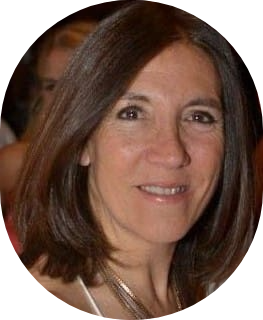
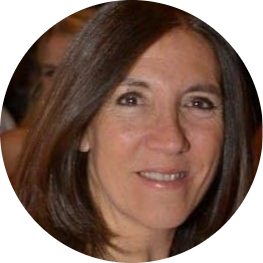
Actualización proyecto

diff --git a/index.html b/index.html
@@ -56,13 +56,13 @@
                 </div>
                 <div class="carousel-inner">
                     <div class="carousel-item active">
-                        <img src="img/slide1.png" class="d-block w-100" alt="slide1">
+                        <img src="img/Vmontaña1.png" class="d-block w-100" alt="slide1">
                     </div>
                     <div class="carousel-item">
-                        <img src="img/slide2.png" class="d-block w-100" alt="slide2">
+                        <img src="img/Vmontaña2.png" class="d-block w-100" alt="slide2">
                     </div>
                     <div class="carousel-item">
-                        <img src="img/slide3.png" class="d-block w-100" alt="slide3">
+                        <img src="img/Vmontaña3.png" class="d-block w-100" alt="slide3">
                     </div>
                 </div>
                 <button class="carousel-control-prev" type="button" data-bs-target="#carouselExampleIndicators"
@@ -80,21 +80,13 @@
                 <h2><strong>SERVICIOS</strong></h2>
                 <div class="imgindex margp">
                     <figure>
-                        <h4>Servicio Estructural</h4>
+                        <h4>Cálculo Estructural</h4>
                         <img src="img/Estructura.jpg" alt="Estructura">
-                        <!-- <figcaption>Estructuras para edificios, etc.</figcaption> -->
                     </figure>
                     <figure>
-                        <h4>Servicio de Dirección e Inspección de obras
+                        <h4>Dirección e Inspección de obras
                         </h4>
                         <img src="img/inspec.jpg" alt="Estructura">
-                        <!-- <figcaption>Dirección e Inspección de obras civiles</figcaption> -->
-                    </figure>
-                    <figure>
-                        <h4>Servicio de obras hidraulicas
-                        </h4>
-                        <img src="img/hidra.jpg" alt="hidraulica">
-                        <!-- <figcaption>Obras hidraulicas</figcaption> -->
                     </figure>
                 </div>
                 <button class="buttonRedondo margp"><a href="views/servicios.html"><strong>Ver más</strong></a></button>
@@ -103,9 +95,9 @@
                 <h2><strong>¿QUIENES SOMOS?</strong></h2>
                 <div class="imgindex margp">
                     <figure class="scale">
-                        <img src="img/Patricia.png" alt="Estructura" width="183" height="220">
+                        <img src="img/Patricia.png" alt="Estructura" width="220" height="220">
                         <figcaption>
-                            <strong>Patricia Alejandra Gamez <br> +30 años de experiencia</strong>
+                            <strong>Patricia Alejandra Gamez <br> Ingeniera Civil</strong>
                             <div class="flexesp ancho margp2">
                                 <a href="https://www.facebook.com/patricia.gamez.566" target="_blank"><img src="img/FB.png" alt="facebook"
                                         width="30" height="30"></a>
@@ -117,9 +109,9 @@
                         </figcaption>
                     </figure>
                     <figure class="scale margp3">
-                        <img src="img/Carlos.png" alt="Estructura" width="183" height="220">
+                        <img src="img/Carlos.png" alt="Estructura" width="220" height="220">
                         <figcaption>
-                            <strong>Carlos Moruno <br>+30 años de experiencia
+                            <strong>Jose Carlos Moruno <br>Ingeniero Civil
                             </strong>
                             <div class="flexesp ancho margp2">
                                 <a href="https://www.facebook.com/profile.php?id=1216322559" target="_blank"><img src="img/FB.png" alt="facebook"
@@ -140,21 +132,45 @@
             <section class="parent text-center margp">
                 <div class="div1">
                     <img src="img/chacras park.jpg" alt="Obra chacras park">
+                    <div class="tf transition">
+                        <strong>Obra: Chacras Park</strong>
+                        <em>Mendoza</em>
+                    </div>
                 </div>
                 <div class="div2">
                     <img src="img/torresag.jpg" alt="Obra torres Agustinas">
+                    <div class="tf transition">
+                        <strong>Obra: Torres Agustinas</strong>
+                        <em>Mendoza</em>
+                    </div>
                 </div>
                 <div class="div3">
                     <img src="img/palmaresOpenMall.png" alt="Obra Palmares">
+                    <div class="tf transition">
+                        <strong>Obra: Palmares Open Mall</strong>
+                        <em>Mendoza</em>
+                    </div>
                 </div>
                 <div class="div4">
                     <img src="img/lasLomas.jpg" alt="Obra Las Lomas">
+                    <div class="tf transition">
+                        <strong>Obra: Las Lomas</strong>
+                        <em>Mendoza</em>
+                    </div>
                 </div>
                 <div class="div5">
                     <img src="img/palmaresValley.jpg" alt="Obra Palmares Valley">
+                    <div class="tf transition">
+                        <strong>Obra: Palmares Valley</strong>
+                        <em>Mendoza</em>
+                    </div>
                 </div>
                 <div class="div6">
-                    <img src="img/torresag.jpg" alt="Estructura">
+                    <img src="img/Obra2.jpg" alt="Obra Torres Paulinas">
+                    <div class="tf transition">
+                        <strong>Obra: Torres Paulinas</strong>
+                        <em>Mendoza</em>
+                    </div>
                 </div>
             </section>
             <div class="text-center margp">

diff --git a/views/trabajosrel.html b/views/trabajosrel.html
@@ -49,30 +49,66 @@
             <section class="padre text-center margp">
                 <div class="div1">
                     <img src="../img/chacras park.jpg" alt="Obra chacras park">
+                    <div class="tf transition">
+                        <strong>Obra: Chacras Park</strong>
+                        <em>Mendoza</em>
+                    </div>
                 </div>
                 <div class="div2">
                     <img src="../img/torresag.jpg" alt="Obra torres Agustinas">
+                    <div class="tf transition">
+                        <strong>Obra: Torres Agustinas</strong>
+                        <em>Mendoza</em>
+                    </div>
                 </div>
                 <div class="div3">
                     <img src="../img/palmaresOpenMall.png" alt="Obra Palmares">
+                    <div class="tf transition">
+                        <strong>Obra: Palmares Open Mall</strong>
+                        <em>Mendoza</em>
+                    </div>
                 </div>
                 <div class="div4">
                     <img src="../img/lasLomas.jpg" alt="Obra Las Lomas">
+                    <div class="tf transition">
+                        <strong>Obra: Las Lomas</strong>
+                        <em>Mendoza</em>
+                    </div>
                 </div>
                 <div class="div5">
                     <img src="../img/palmaresValley.jpg" alt="Obra Palmares Valley">
+                    <div class="tf transition">
+                        <strong>Obra: Palmares Valley</strong>
+                        <em>Mendoza</em>
+                    </div>
                 </div>
                 <div class="div6">
-                    <img src="../img/torresag.jpg" alt="Estructura">
+                    <img src="../img/Obra2.jpg" alt="Obra Torres Paulinas">
+                    <div class="tf transition">
+                        <strong>Obra: Torres Paulinas</strong>
+                        <em>Mendoza</em>
+                    </div>
                 </div>
                 <div class="div7">
-                    <img src="../img/diplo.jpg" alt="Estructura">
+                    <img src="../img/diplo.jpg" alt="Obra Hotel Diplomatic">
+                    <div class="tf transition">
+                        <strong>Obra: Hotel Diplomatic</strong>
+                        <em>Mendoza</em>
+                    </div>
                 </div>
                 <div class="div8">
-                    <img src="../img/diplo.jpg" alt="Estructura">
+                    <img src="../img/Obra.jpeg" alt="Obra Torres Paulinas">
+                    <div class="tf transition">
+                        <strong>Obra: Torres Paulinas</strong>
+                        <em>Mendoza</em>
+                    </div>
                 </div>
                 <div class="div9">
-                    <img src="../img/diplo.jpg" alt="Estructura">
+                    <img src="../img/Obra1.jpg" alt="Obra Torres Paulinas">
+                    <div class="tf transition">
+                        <strong>Obra: Torres Paulinas</strong>
+                        <em>Mendoza</em>
+                    </div>
                 </div>
             </section>
         </main>

diff --git a/views/servicios.html b/views/servicios.html
@@ -53,13 +53,13 @@
                 </div>
                 <div class="carousel-inner">
                     <div class="carousel-item active">
-                        <img src="../img/slide1.png" class="d-block w-100" alt="slide1">
+                        <img src="../img/Vmontaña1.png" class="d-block w-100" alt="slide1">
                     </div>
                     <div class="carousel-item">
-                        <img src="../img/slide2.png" class="d-block w-100" alt="slide2">
+                        <img src="../img/Vmontaña2.png" class="d-block w-100" alt="slide2">
                     </div>
                     <div class="carousel-item">
-                        <img src="../img/slide3.png" class="d-block w-100" alt="slide3">
+                        <img src="../img/Vmontaña3.png" class="d-block w-100" alt="slide3">
                     </div>
                 </div>
                 <button class="carousel-control-prev" type="button" data-bs-target="#carouselExampleIndicators"
@@ -76,18 +76,18 @@
             <h1 class="text-center margp"><strong>SERVICIOS</strong></h1>
             <div class="imgindex text-center imgserv margp">
                 <figure>
-                    <h5>Servicio Estructural</h5>
+                    <h5>Cálculo Estructural</h5>
                     <img src="../img/Estructura.jpg" alt="Estructura">
                     <figcaption>Estructuras para edificios, etc.</figcaption>
                 </figure>
                 <figure>
-                    <h5>Servicio de Dirección e Inspección de obras
+                    <h5>Dirección e Inspección de obras
                     </h5>
                     <img src="../img/inspec.jpg" alt="Inspección">
                     <figcaption>Dirección e Inspección de obras civiles</figcaption>
                 </figure>
                 <figure>
-                    <h5>Servicio de obras hidraulicas
+                    <h5>Obras hidráulicas
                     </h5>
                     <img src="../img/hidra.jpg" alt="hidraulica">
                     <figcaption>Obras hidraulicas</figcaption>

diff --git a/css/style.css b/css/style.css
@@ -107,31 +107,49 @@ textarea {
   grid-row-gap: 0px; }
 
 .div1 {
-  grid-area: 1 / 1 / 2 / 2; }
+  grid-area: 1 / 1 / 2 / 2;
+  position: relative;
+  text-align: center; }
 
 .div2 {
-  grid-area: 1 / 2 / 2 / 3; }
+  grid-area: 1 / 2 / 2 / 3;
+  position: relative;
+  text-align: center; }
 
 .div3 {
-  grid-area: 1 / 3 / 2 / 4; }
+  grid-area: 1 / 3 / 2 / 4;
+  position: relative;
+  text-align: center; }
 
 .div4 {
-  grid-area: 2 / 1 / 3 / 2; }
+  grid-area: 2 / 1 / 3 / 2;
+  position: relative;
+  text-align: center; }
 
 .div5 {
-  grid-area: 2 / 2 / 3 / 3; }
+  grid-area: 2 / 2 / 3 / 3;
+  position: relative;
+  text-align: center; }
 
 .div6 {
-  grid-area: 2 / 3 / 3 / 4; }
+  grid-area: 2 / 3 / 3 / 4;
+  position: relative;
+  text-align: center; }
 
 .div7 {
-  grid-area: 3 / 1 / 4 / 2; }
+  grid-area: 3 / 1 / 4 / 2;
+  position: relative;
+  text-align: center; }
 
 .div8 {
-  grid-area: 3 / 2 / 4 / 3; }
+  grid-area: 3 / 2 / 4 / 3;
+  position: relative;
+  text-align: center; }
 
 .div9 {
-  grid-area: 3 / 3 / 4 / 4; }
+  grid-area: 3 / 3 / 4 / 4;
+  position: relative;
+  text-align: center; }
 
 .parent div img {
   max-width: 100%;
@@ -179,7 +197,7 @@ textarea {
   transition: all 2s; }
 
 .transition:hover {
-  width: 200px;
+  width: 100%;
   background-color: #4D393B;
   cursor: pointer; }
 
@@ -208,6 +226,18 @@ textarea {
   margin-top: 10px;
   margin-bottom: 10px;
   color: #EAE9BB; }
+
+.tf {
+  position: absolute;
+  top: 50%;
+  left: 50%;
+  transform: translate(-50%, -50%);
+  color: white;
+  font-weight: bolder;
+  display: flex;
+  justify-content: center;
+  align-items: center;
+  flex-direction: column; }
 
 footer {
   background-color: #EAE9BB;

diff --git a/scss/_commons.scss b/scss/_commons.scss
@@ -90,16 +90,50 @@ textarea{
 }
 
 .div1 { 
-    grid-area: 1 / 1 / 2 / 2; 
+    grid-area: 1 / 1 / 2 / 2;
+	position: relative;
+	text-align: center;
 }
-.div2 { grid-area: 1 / 2 / 2 / 3; }
-.div3 { grid-area: 1 / 3 / 2 / 4; }
-.div4 { grid-area: 2 / 1 / 3 / 2; }
-.div5 { grid-area: 2 / 2 / 3 / 3; }
-.div6 { grid-area: 2 / 3 / 3 / 4; }
-.div7 { grid-area: 3 / 1 / 4 / 2; }
-.div8 { grid-area: 3 / 2 / 4 / 3; }
-.div9 { grid-area: 3 / 3 / 4 / 4; }
+.div2 { 
+	grid-area: 1 / 2 / 2 / 3;
+	position: relative;
+	text-align: center; 
+}
+.div3 { 
+	grid-area: 1 / 3 / 2 / 4;
+	position: relative;
+	text-align: center; 
+}
+.div4 { 
+	grid-area: 2 / 1 / 3 / 2;
+	position: relative;
+	text-align: center; 
+}
+.div5 { 
+	grid-area: 2 / 2 / 3 / 3;
+	position: relative;
+	text-align: center; 
+}
+.div6 { 
+	grid-area: 2 / 3 / 3 / 4;
+	position: relative;
+	text-align: center; 
+}
+.div7 { 
+	grid-area: 3 / 1 / 4 / 2; 
+	position: relative;
+	text-align: center; 
+}
+.div8 { 
+	grid-area: 3 / 2 / 4 / 3; 
+	position: relative;
+	text-align: center; 
+}
+.div9 { 
+	grid-area: 3 / 3 / 4 / 4; 
+	position: relative;
+	text-align: center; 
+}
 
 .parent{
 	div{
@@ -161,7 +195,7 @@ textarea{
 }
 
 .transition:hover{
-	width: 200px;
+	width: 100%;
 	background-color: $colorA;
 	cursor: pointer;
 }
@@ -198,4 +232,14 @@ textarea{
 	margin-top: 10px;
 	margin-bottom: 10px;
 	color: $colorB;
+}
+
+.tf{
+    position: absolute;
+    top: 50%;
+    left: 50%;
+    transform: translate(-50%, -50%);
+	color: white;
+	font-weight: bolder;
+	@include flexP(center, center, column);
 }
